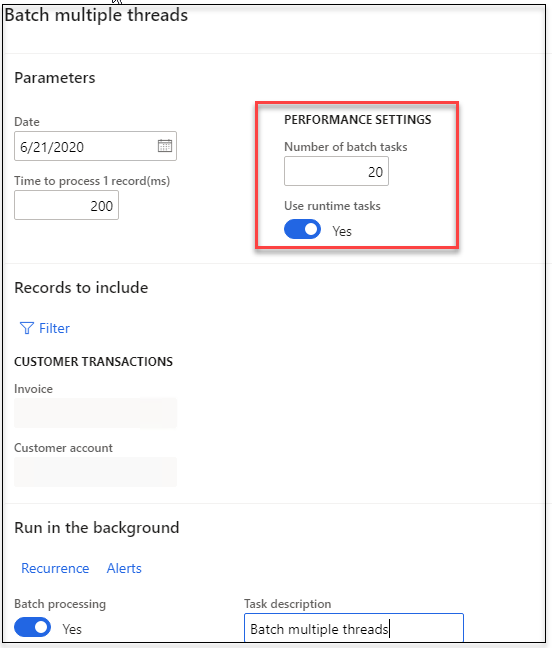
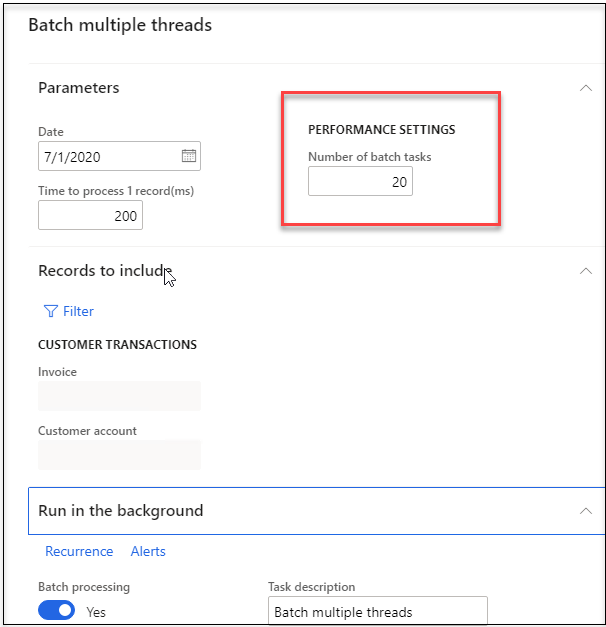
batch

Changed region(s): [[0.0, 0.0, 1.0, 1.0], [0.462, 0.1212, 0.8623, 0.3939]]

diff --git a/src/draft/xpptools-batchmultithread/index.md b/src/draft/xpptools-batchmultithread/index.md
@@ -1,23 +1,21 @@
 ---
-title: "Implementing parallel batch processing in X++"
+title: "A simple way to implement a parallel batch processing in X++"
 date: "2020-06-17T22:12:03.284Z"
 tags: ["DEVTutorial", "Performance"]
 path: "/xpptools-batchmultithread"
 featuredImage: "./logo.png"
-excerpt: "The post describes a utility that generates X++ code template for Data provider and Controller classes."
+excerpt: "The post describes how you can convert your existing batch job to multithreaded in order to increase a performance"
 ---
 
-One of the powerful feature of Dynamics 365 Finance and Operations is a Batch framework. In this post I explain how you can work with tasks to optimize the performance of batch task
+One of the powerful feature of Dynamics 365 Finance and Operations is a Batch framework. In this post I explain how you can convert your existing batch job to multithreaded in order to increase a performance.
 
 ## Initial example 
 
-Les's consider the following operation - a user dialog that process customer transactions and performs some operation at the end. 
+Let's consider the following operation - a user dialog that process customer transactions and performs some operation at the end. 
 
 ![](SingleThreadBatch.png)
 
-
-
-Logic is very simple - loop thought all specified customer transactions and call **process()** function. In our case it will sleep for the specified number of milliseconds
+Logic is very simple - loop thought all specified customer transactions and call **process()** function. In our case it will sleep for the specified number of milliseconds. After the transactions processing it runs a final function - in our case it is just an Infolog message.
 
 ```csharp
 public void run()
@@ -47,7 +45,7 @@ public void processRecord(CustTrans  _custTrans)
 }
 ```
 
-Standard USMF demo company has 1700 customer transactions, so if we run this job in a user interface or in a batch with 200ms to process one transaction it will take 340 seconds
+Standard USMF demo company has 1700 customer transactions, so if we run this job with no filters in a user interface or in a batch and specify a time 200ms to process one transaction it will take 340 seconds for the whole job.
 
 ![](BatchResults.png)
 
@@ -55,18 +53,20 @@ https://usnconeboxax1aos.cloud.onebox.dynamics.com/?mi=SysClassRunner&cls=DEVTut
 
 ## Solution design principles
 
-It is quite obvious that we can optimize this by running the code in parallel threads. What should be considering while designing a solution for this:
+It is quite obvious that we can optimize this by running the code in parallel threads. The possible options of how this work described in Ax perf blog - [Batch Parallelism in AX](https://docs.microsoft.com/en-us/archive/blogs/axperf/batch-parallelism-in-ax-part-iv), but every approach from that article has it's pros and cons. 
 
-- A change should be simple and require minimum changes to the original class. We don't what to create new classes or new tables. 
-- We can't run I single batch thread per transaction - it will create a lot of overhead for batch framework, so solution should allow to specify a maximum batch threads.
-- Execution flow in batch or without batch should be exactly the same, better to avoid operations that can be run only in batch. 
-- We should support the final task and it should be executed only once.
+What should be considering while designing a simplified solution for this:
 
-In most cases we(as a developer) should know how to split the load. In the example above we can split selected customer transaction by equal intervals, but the split function can be more complex(for example we may want to avoid running parallel tasks for the same customer in order to avoid blocking)
+- A change should be simple and require minimum changes to the original class. We don't what to create new classes or new tables to support a parallel execution. 
+- We can't run a single batch thread per one transaction - it will create a lot of overhead for batch framework, so solution should allow to specify a maximum batch threads.
+- Execution flow in batch mode or in user interface should be exactly the same, better to avoid operations that can be run only in batch. 
+- We should support the final task and it should be executed only once after transactions processing
 
-So the main idea is to introduce a new parameter **batchIdentifier** - list of split intervals and then run our logic for these intervals.
+In most cases we(as a developers) should know how to split the load. In the example above we can just split selected customer transaction by equal intervals, but the split function can be more complex(for example we may want to avoid running parallel tasks for the same customer in order to avoid blocking)
 
-I created a base class **DEVTutorialBatchMultipleThreadBase** to incorporate this logic. If we have batchIdentifier specified - that means it is child class that needs to perform a calculation for this batchIdentifier. If the class executed with an empty batch identifiers - that means it is a main task that should split the load and create all task for each split key and the final task at the end
+The main idea is to introduce a new class parameter **batchIdentifier** - identification for the split interval and then run our logic only for this interval.
+
+I created a base class **DEVTutorialBatchMultipleThreadBase** to incorporate this logic. If we have **batchIdentifier** specified - that means it is child class that needs to perform a calculation for this **batchIdentifier**. If the class executed with an empty batch identifiers - that means it is a main task that should split the load and create all tasks for each split key and the final task at the end
 
 ```csharp
 class DEVTutorialBatchMultipleThreadBase extends RunBaseBatch
@@ -119,13 +119,13 @@ class DEVTutorialBatchMultipleThreadBase extends RunBaseBatch
     }
 ```
 
-Method processThreadItem create the same instance of our class, call pack function. If process is executed in a batch mode it create a new **runtime** batch task, without batch it just run it.
+Method **processThreadItem** creates the same instance of our class and calls a **pack** function. If the process is executed in a batch mode it create a new **runtime batch task**, without batch mode it just run this task.
 
 ## Multiple threads batch example
 
 Let's change our class to multithread 
 
-we need to implement 4 function - 
+we need to implement 3 function - **runStartTask()**, **runThreadTask()**, **runFinalTask()** to execute our tasks and **getBatchIdentifiersRangeCon()** to create a list of intervals - in our case it will be ranges **FromRecId..ToRecId** for the selected transactions. Method **getBatchIdentifiersRangeCon()** is the most complex and new in this example, all others just a copy of original methods. 
 
 ```csharp
 public class DEVTutorialBatchMultipleThread extends DEVTutorialBatchMultipleThreadBase
@@ -139,7 +139,7 @@ public void runThreadTask()
 {
 	//2. Query Processing
 	QueryBuildDataSource  qBDS = queryRun.query().dataSourceTable(tablenum(CustTrans));
-    qBDS.addRange(fieldnum(CustTrans, RecId)).value(batchIdentifier);
+    qBDS.addRange(fieldnum(CustTrans, RecId)).value(batchIdentifier); // highlight-line
     while (queryRun.next())
     {
         CustTrans   custTrans = queryRun.get(tablenum(CustTrans));
@@ -152,56 +152,56 @@ public void runFinalTask()
     info(strfmt("%2 - %1 record(s) processed", SysQuery::countTotal(queryRun),
                 AifUtil::applyUserPreferredTimeZoneOffset(DateTimeUtil::utcNow())));
 }
-    public container  getBatchIdentifiersRangeCon()
+public container  getBatchIdentifiersRangeCon()
+{
+    container  res;
+    QueryRun   queryRunLocal = new QueryRun(queryRun.query());
+
+    QueryBuildDataSource   qBDS = queryRunLocal.query().dataSourceTable(tablenum(CustTrans));
+    int                    totalRecords, curRecord, recordsPerBatch;
+    RecId                  fromRecId, toRecId;
+
+    qBDS.sortClear();
+    qBDS.addSortField(fieldnum(CustTrans, RecId));
+    !!!qBDS.addRange(fieldnum(CustTrans, RecId)).value(batchIdentifier);
+
+    totalRecords = SysQuery::countTotal(queryRunLocal);
+    recordsPerBatch = maxTaskCount > 0 ? totalRecords div maxTaskCount : totalRecords;       if (! recordsPerBatch)
     {
-        container  res;
-        QueryRun   queryRunLocal = new QueryRun(queryRun.query());
-
-        QueryBuildDataSource   qBDS = queryRunLocal.query().dataSourceTable(tablenum(CustTrans));
-        int                    totalRecords, curRecord, recordsPerBatch;
-        RecId                  fromRecId, toRecId;
-
-        qBDS.sortClear();
-        qBDS.addSortField(fieldnum(CustTrans, RecId));
-        qBDS.addRange(fieldnum(CustTrans, RecId)).value(batchIdentifier);
-
-        totalRecords = SysQuery::countTotal(queryRunLocal);
-        recordsPerBatch = maxTaskCount > 0 ? totalRecords div maxTaskCount : totalRecords;        
-        if (! recordsPerBatch)
-        {
-            recordsPerBatch = 1;
-        }
-
-        while (queryRunLocal.next())
-        {
-            CustTrans   custTrans = queryRunLocal.get(tablenum(CustTrans));
-            if (! fromRecId) fromRecId = custTrans.RecId;
-
-            curRecord++;
-            toRecId = custTrans.RecId;
-            if ((curRecord mod recordsPerBatch) == 0)
-            {
-                res += SysQuery::range(fromRecId, toRecId);
-                fromRecId = 0;
-                curRecord = 0;
-            }            
-        }        
-        if (curRecord && fromRecId && toRecId) res += SysQuery::range(fromRecId, toRecId);
+        recordsPerBatch = 1;
     }
+    while (queryRunLocal.next())
+    {
+        CustTrans   custTrans = queryRunLocal.get(tablenum(CustTrans));
+        if (! fromRecId) fromRecId = custTrans.RecId;
 
+        curRecord++;
+        toRecId = custTrans.RecId;
+        if ((curRecord mod recordsPerBatch) == 0)
+        {
+            res += SysQuery::range(fromRecId, toRecId);
+            fromRecId = 0;
+            curRecord = 0;
+        }            
+    }        
+    if (curRecord && fromRecId && toRecId) res += SysQuery::range(fromRecId, toRecId);
     return res;
 }
     
 ```
 
+In user interface we added a new field **"Number for batch tasks"** to allow user to specify how many tasks to create. 
 
+![](MultipleThreadBatch.png)
 
-the following results
+if we run our function in batch mode we will see the following result
 
 ![Multiple Thread Result](MultipleThreadResult.png)
 
-
+In this case we got the total execution time 30 sec, but values less than a minute are more related to batch processing.
 
 ## Summary
 
-You can download this "**DataContract class builder**" from the following link https://github.com/TrudAX/TRUDUtilsD365/releases. If you find that something is missing or can be improved, don't hesitate to leave a comment.
+I described how easily you can implement a multithreading in **RunBase** framework and convert the existing single threaded task to the multithreaded one. One note for this - use this approach only after you perform all possible optimizations for the original code, running non optimal code in multiple threads can create problems. Also the described solution if compatible with Ax2009 and AX2012, so you can use exactly the same approach. 
+
+You can download all classes used in this post from the following link [DEVTutorialBatchSingleThread](https://github.com/TrudAX/XppTools/blob/master/DEVTutorial/DEVTutorial/AxClass/DEVTutorialBatchSingleThread.xml), [DEVTutorialBatchMultipleThreadBase](https://github.com/TrudAX/XppTools/blob/master/DEVTutorial/DEVTutorial/AxClass/DEVTutorialBatchMultipleThreadBase.xml),  [DEVTutorialBatchMultipleThread](https://github.com/TrudAX/XppTools/blob/master/DEVTutorial/DEVTutorial/AxClass/DEVTutorialBatchMultipleThread.xml) . If you find that something is missing or can be improved, don't hesitate to leave a comment.
